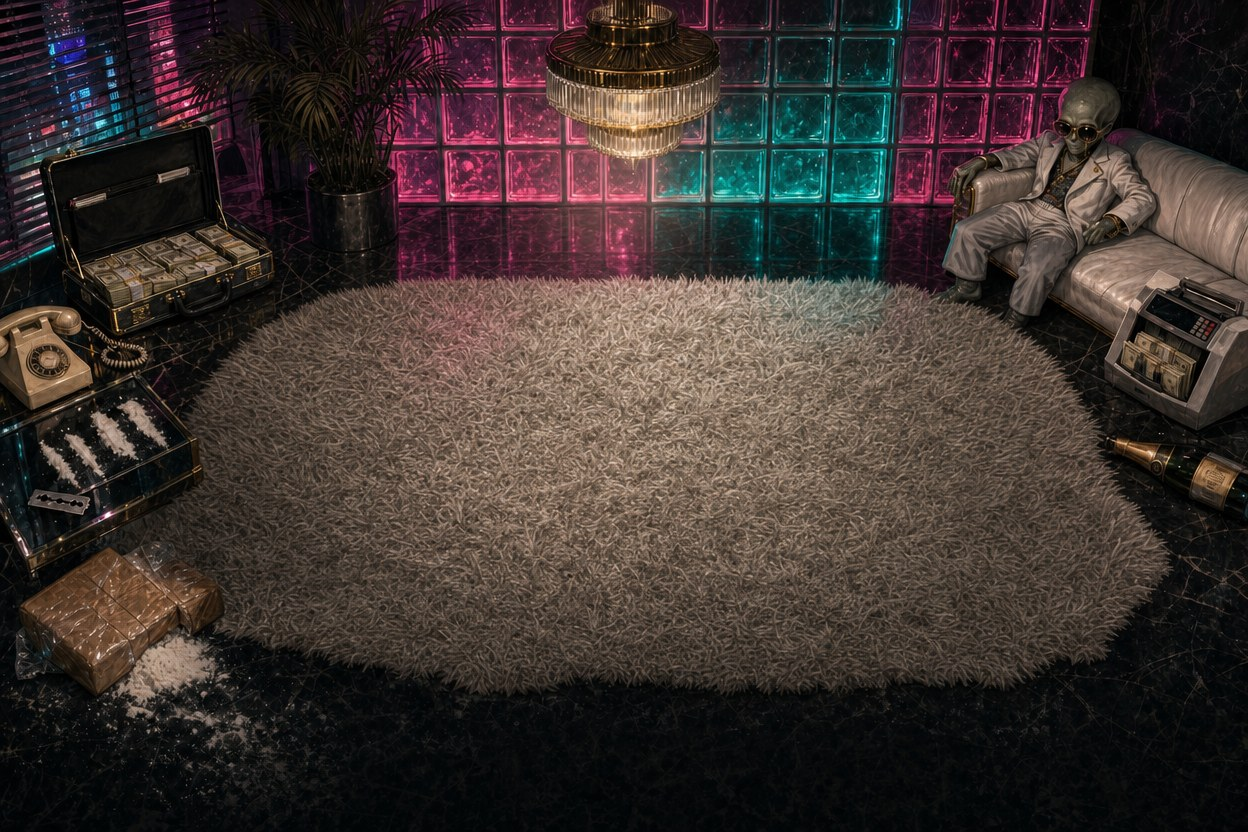
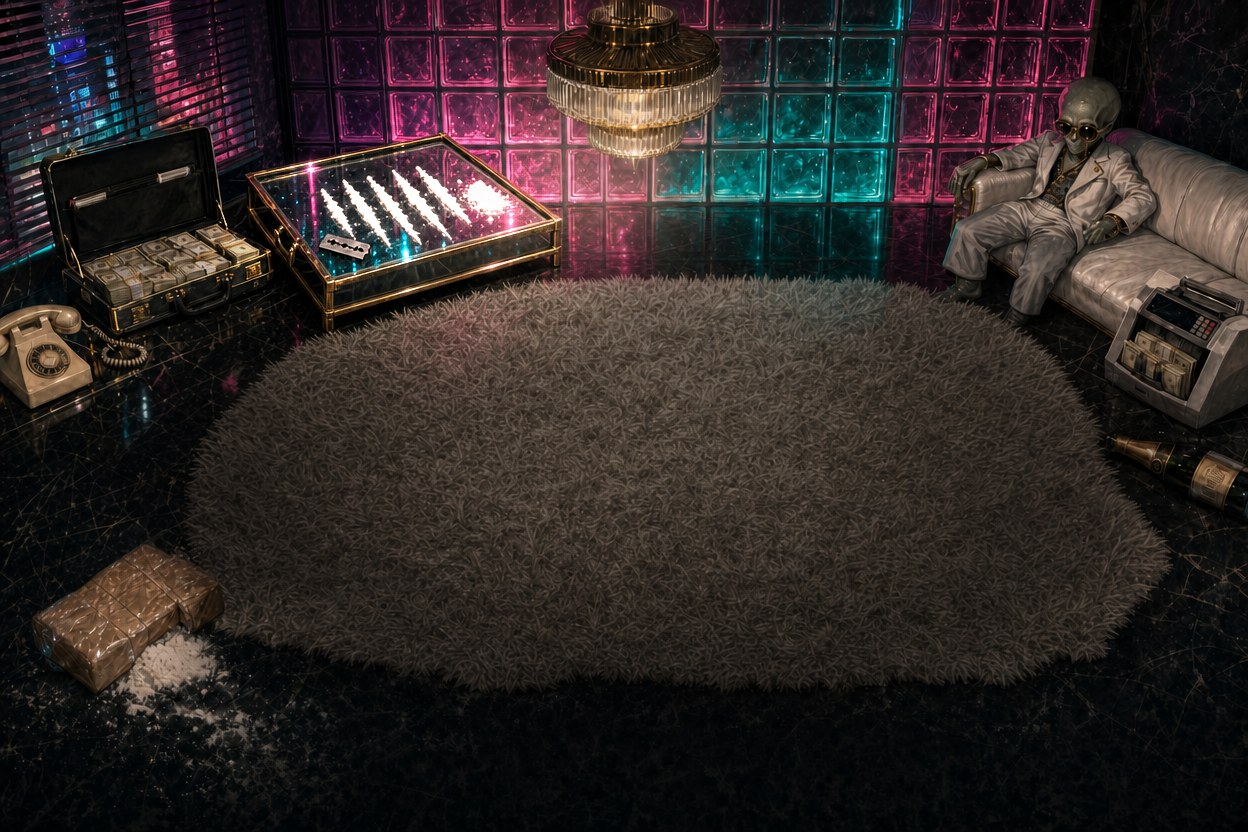
Table looks: Miami room repainted so the mirrored table with the powder lines shows
Chris 2026-10-06: the coke on the table at the left was too small. It sat at the far left of the room,
under the chat panel. The room is repainted (one image edit) with the table at the upper left, clear of
the chat panel and the poker table, lit, and the rug darkened in the picture; the Miami vignette is back
near the default; on landscape screens the room is drawn 15 percent larger and shifted so the table sits
in the gap. Checked in real screenshots at 1440x900 and 390x844 (looks-shots/miami-d.png, miami-m.png).

diff --git a/public/looks.css b/public/looks.css
@@ -24,7 +24,12 @@
 /* ── per-look tuning, judged from screenshots (looks-shots/) ── */
 /* the "POT" caption sits on the studded ring: on the pale steel and alloy rails it vanished */
 #game-screen[data-look]:not([data-look="basement"]) .pot-txt small { color: #F2E6C4; text-shadow: 0 0 3px #000, 0 1px 2px #000, 0 0 6px rgba(0, 0, 0, .8); }
-/* the shag rug under the Miami table is a bright flat grey: pull the room down */
+/* Miami: the mirrored table with the powder lines is the point of the room (Chris 2026-10-06). The room is repainted with it at the
+   upper left, clear of the chat panel and the poker table; the rug is darkened in the picture itself, so the room keeps the normal
+   vignette, a little lighter. On landscape screens the room is also drawn 15 percent larger and shifted so the table sits in the gap. */
 #game-screen[data-look="miami"]::before {
-  background: radial-gradient(ellipse 75% 70% at 50% 46%, transparent 30%, rgba(4, 2, 1, .66) 100%), linear-gradient(rgba(8, 5, 3, .42), rgba(8, 5, 3, .42));
+  background: radial-gradient(ellipse 75% 70% at 50% 46%, transparent 38%, rgba(4, 2, 1, .5) 100%), linear-gradient(rgba(8, 5, 3, .1), rgba(8, 5, 3, .1));
+}
+@media (min-aspect-ratio: 5/4) {
+  #game-screen[data-look="miami"] { background-size: 115% auto; background-position: 33% 42%; }
 }
